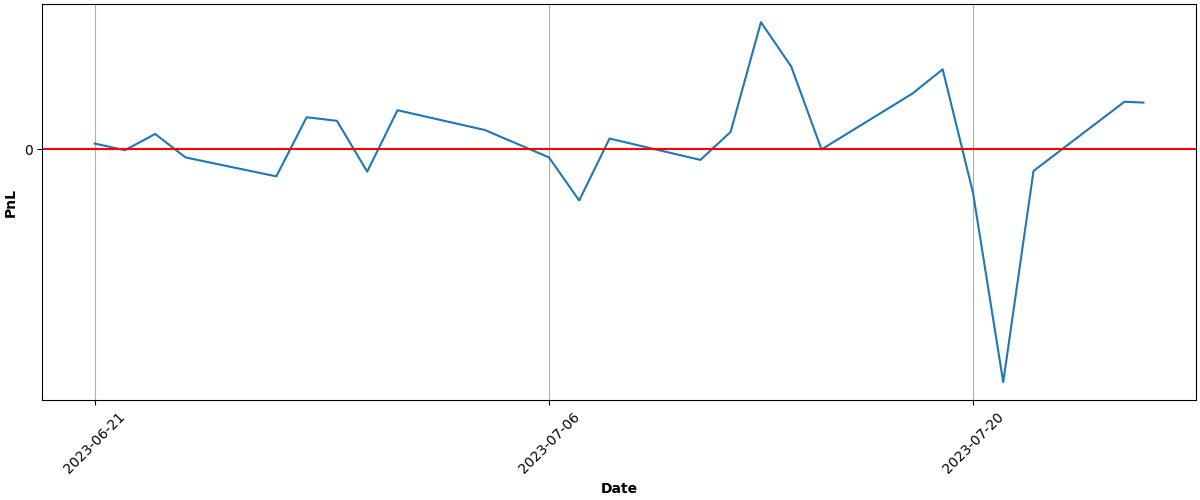
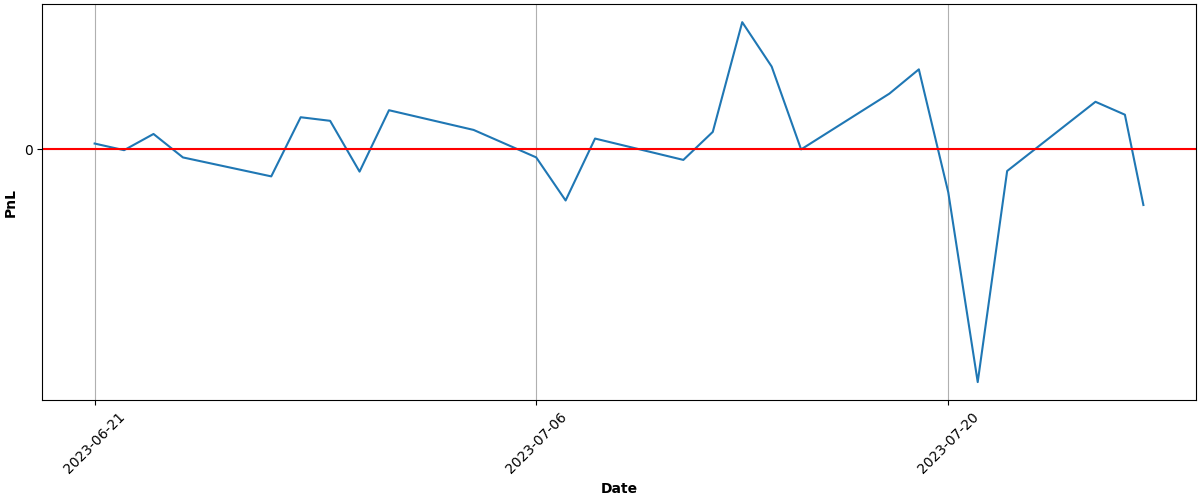
Automated Buy At Wed Jul 26 15:04:42 UTC 2023 Run ID 5670457373

diff --git a/README.md b/README.md
@@ -68,9 +68,9 @@ Results
 
 | Asset | Average Price | Current Price | ROI | 📈 |
 | --- | --- | --- | --- | --- |
-| FNGU | $190.066862468 | $189.6 | -0.25% | &#128308;&#128546; |
-| SVIX | $27.543718182 | $30.0318 | 9.03% | &#128994;&#128515; |
-| **Total** |  |  | **4.75%** | &#128994;&#128518; |
+| FNGU | $189.820581582 | $183.59 | -3.28% | &#128308;&#128546; |
+| SVIX | $27.543718182 | $29.84 | 8.34% | &#128994;&#128515; |
+| **Total** |  |  | **2.86%** | &#128994;&#128518; |
 
 ### PnL over time (calculations may not be accurate):
 
@@ -81,6 +81,6 @@ Results
 ---
 
 
-Updated at 2023-07-25 15:04:46
+Updated at 2023-07-26 15:04:59
 
 
